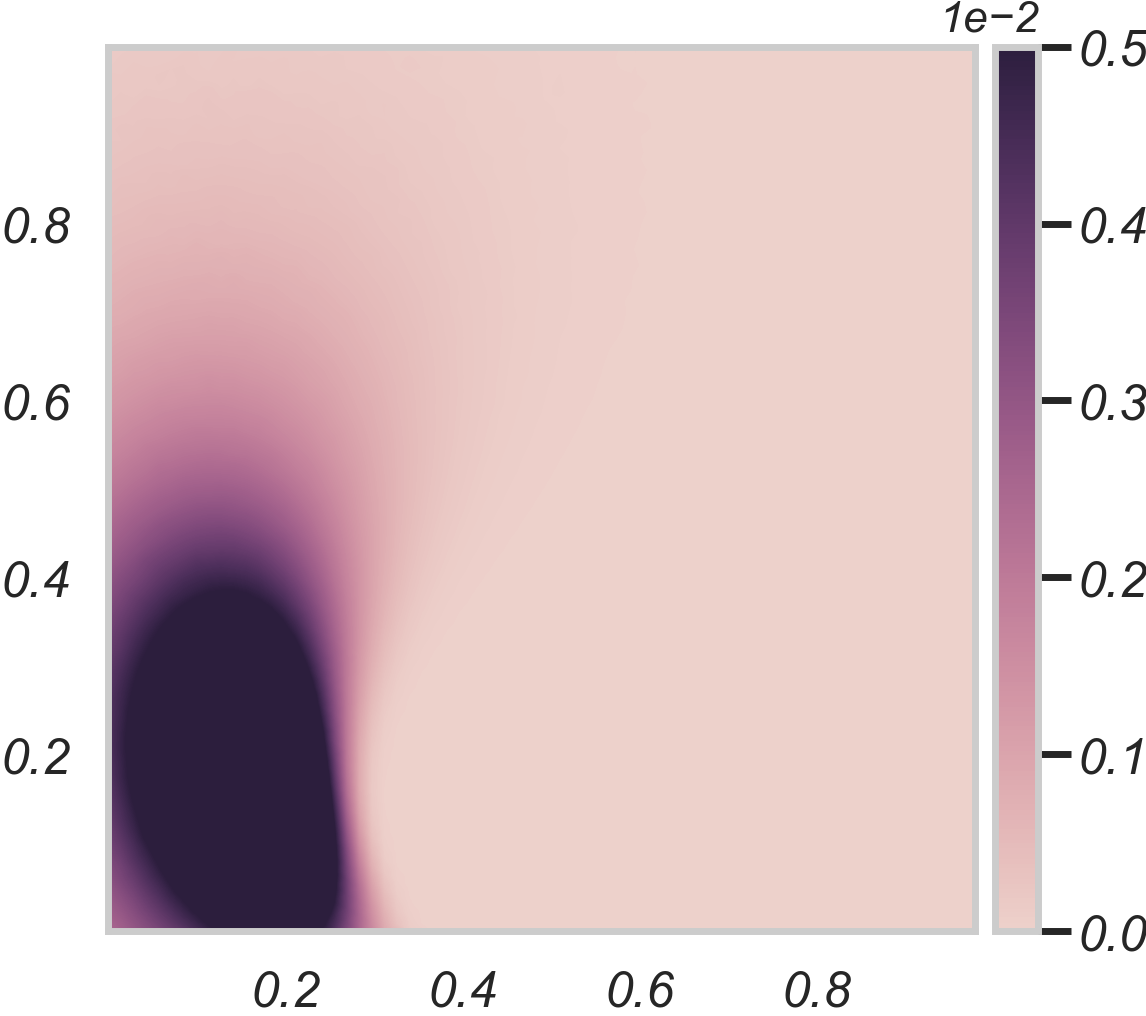
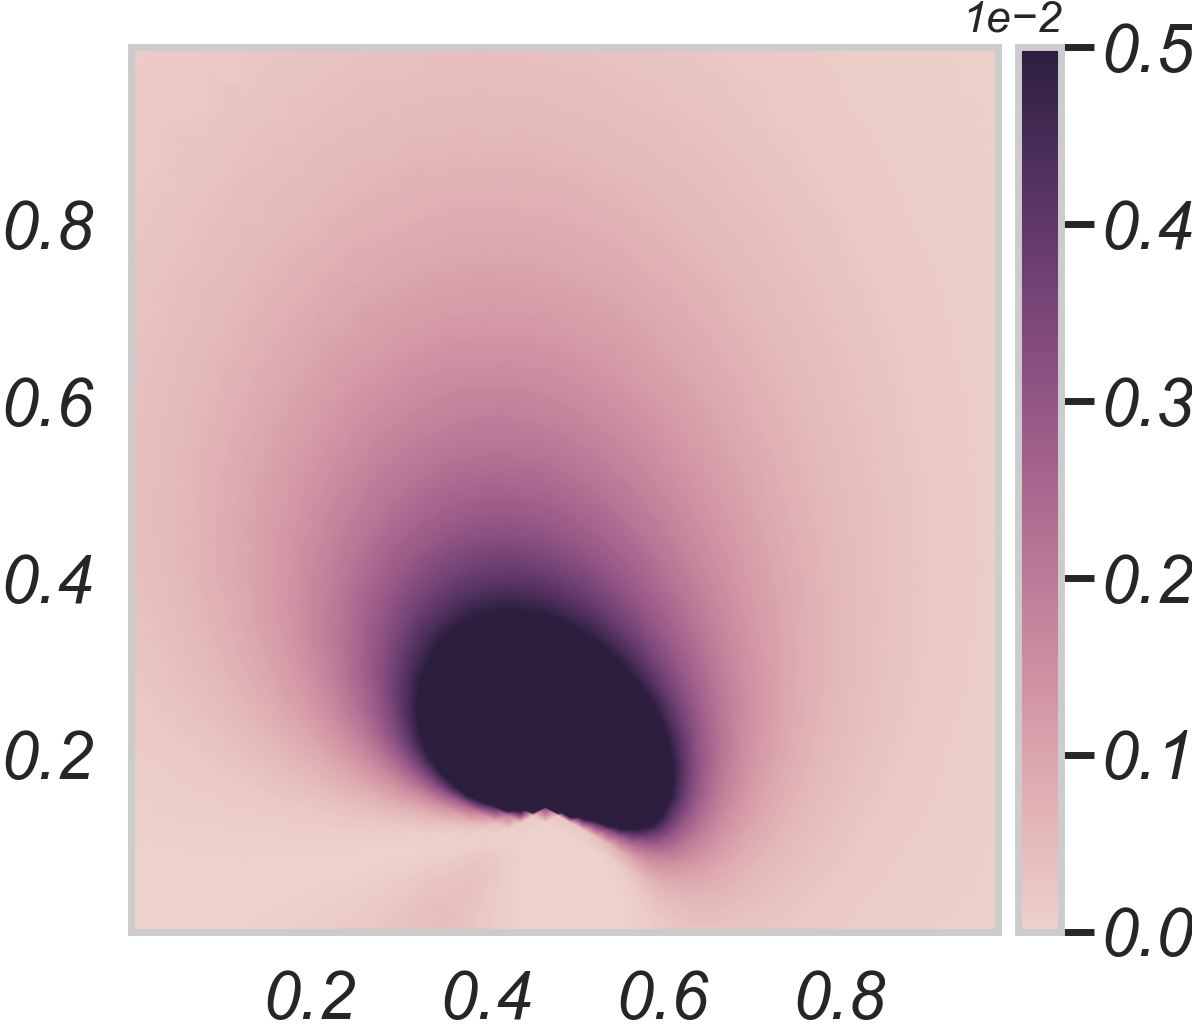
Updates from Overleaf

diff --git a/main_new.tex b/main_new.tex
@@ -85,7 +85,7 @@ Switzerland.
   spatial characteristics of ocean phenomena. Specifically, we define
   a design criterion based on uncertainty in the excursions of
   vector-valued Gaussian random fields, and derive tractable
-  expressions for the expected Bernoulli variance reduction in such a
+  expressions for the expected integrated Bernoulli variance reduction in such a
   framework. We demonstrate how this criterion can be used to
   prioritize sampling efforts at locations that are ambiguous, making
   exploration more effective. We use simulations to study the
@@ -775,10 +775,10 @@ solutions have been noted in similar contexts
 situation with random sets for vector-valued GRFs.
 
 
-\subsection{Expected Bernoulli Variance on a two dimensional Example}
+\subsection{Expected Bernoulli variance for a two dimensional Example}
 \label{Sec:UnivarEx}
 
-We illustrate the EBV associated with different designs on a simple
+We illustrate the expected Bernoulli variance (EBV) associated with different designs on a simple
 bivariate example. This mimics our river plume application and hence
 the first and second component of the random field will be called
 \textit{temperature} and \textit{salinity}. We begin
@@ -790,7 +790,7 @@ Say we want to study the excursion probability of a bivariate Gaussian
 above some threshold, where the thresholds are set equal to the mean;
 $\mu_1=t_1=5^o C$ for temperature and $\mu_2=t_2=30$ g/kg for
 salinity, and we play with the temperature and salinity correlation
-and variances to study the effect on the EP and expected Bernoulli variance.
+and variances to study the effect on the EP and EBV.
 
 \begin{figure}[!b] 
 \centering
@@ -813,11 +813,11 @@ Bernoulli variance (second row) for the examples indicated in
 Fig.~\ref{illus_bivarDens}. The EPs increase with the correlation as
 there is a strong tendency to have jointly low or high temperature and
 salinity. The Bernoulli variance is similarly larger for high
-correlations. EPs and Bernoulli variances are the same for standard
-deviation $1$ or $2$, which implies that high variability in
+correlations. EPs and Bernoulli variances are the same for temperature and salinity standard
+deviations $\sigma_1$ and $\sigma_2$, which implies that high variability in
 temperature and salinity is not captured in the $p(1-p)$ expression.
 
-\begin{table}[!t] \centering \caption{EP and Bernoulli variance for different correlations and variances (top rows), and expected Bernoulli variances for both temperature and salinity data, and only temperature data (bottom rows).}
+\begin{table}[!t] \centering \caption{EP and Bernoulli variance for different correlations and variances (top rows), and EBVs for both temperature and salinity data, and only temperature data (bottom rows).}
   \begin{tabular}{c|ccc|ccc}
  &\multicolumn{3}{c}{$\sigma_1=\sigma_2=1$} & \multicolumn{3}{c}{$\sigma_1=\sigma_2=2$} \\
 \hline
@@ -832,16 +832,15 @@ EBV, Temperature only & 0.151 & 0.138 & 0.123 & 0.137 & 0.114 & 0.093 \\
 \label{tab:sim_rhoab}
 \end{table}
 The bottom two rows of Table \ref{tab:sim_rhoab} show 
-expected Bernoulli variance results. This is presented for a design gathering
+EBV results. This is presented for a design gathering
 both data types, and for a design with temperature measurements
 alone. When both data are gathered, the measurement model is
 $(Y_1,Y_2)^t=(Z_1,Z_2)^t+\bepsilon$, with
 $\bepsilon \sim N(0,0.5^2I_2)$, while $Y_1=Z_1+\epsilon$,
 $\epsilon \sim N(0,0.5^2)$ when only temperature is measured.  For
 this illustration, Table \ref{tab:sim_rhoab} shows that the expected
-Bernoulli variance gets lower with larger standard deviations
-$\sigma_1$ and $\sigma_2$. The expected reduction of Bernoulli variance is
-largest for the cases with high correlation $\gamma$. Albeit smaller,
+Bernoulli variance gets smaller with larger standard deviations. The expected reduction of Bernoulli variance is
+further largest for the cases with high correlation $\gamma$. Albeit smaller,
 there is also uncertainty reduction when only temperature is measured
 (bottom row), especially when temperature and salinity are highly
 correlated. When correlation is low ($\gamma=0.2$), there is little
@@ -852,12 +851,11 @@ uncertainty reduction.
 
 \subsubsection{Including Spatiality}
 
-We now turn to an example involving a full-fledged gaussian random
-field (GRF). The class of GRF model we consider have a linear trend
+We now turn to an example involving a full-fledged GRF. We consider a linear trend
 \begin{align*}
 \mu(s)=\mathbb{E}\left[\begin{pmatrix}
 Z_{\spatloc, 1}\\ Z_{\spatloc, 2}
-\end{pmatrix}\right] &= \beta_0 + \beta_1 \spatloc
+\end{pmatrix}\right] &= \beta_0 + \beta_1 \spatloc,
 \end{align*}
 with $\beta_0$ a two dimensional vector and $\beta_1$ a $2\times 2$ matrix. In our examples, we only consider separable covariance models;
 \begin{align*}
@@ -865,21 +863,17 @@ with $\beta_0$ a two dimensional vector and $\beta_1$ a $2\times 2$ matrix. In o
    \gamma \sigma_i \sigma_j,~i\neq j,
         \end{cases}
 \end{align*}
-where $k(., .)$ is one of the traditional spatial covariance kernel
-(exponential, Mat\'{e}rn, etc.) and $\gamma$ defines the
-cross-covariance structure. 
+where an isotropic Mat\'{e}rn 3/2 kernel $(1+\eta h)\exp (-\eta h)$ is used, for Euclidean distance $h$.
 In the accompanying Python
 examples taking place within the MESLAS toolbox~\footnote{\url{https://github.com/CedricTravelletti/MESLAS}}, these
 modeling assumptions can however be relaxed to anisotropic covariance and
-changing variance levels across the spatial domain. Anisotropy and
-non-stationary variance are both relevant for the setting with river
-plumes, but in practice this requires more parameters to be
-specified. With extensive satellite data or prior knowledge from high-resolution ocean models, one could also possibly fit more complex multivariate
+changing variance levels across the spatial domain. Both extensions are relevant for the setting with river
+plumes, but in practice this requires more parameters to be specified. With extensive satellite data or prior knowledge from high-resolution ocean models, one could also possibly fit more complex multivariate
 spatial covariance functions
 \citep{gneiting2010matern,genton2015cross}, but that is outside the
 scope of the current paper.
 
-In the rest of this section, we will consider a GRF with mean and
+In the rest of this section, we consider a GRF with mean and
 covariance structure as above and parameters
 \begin{align*}
 \beta_0 = \begin{pmatrix}
@@ -887,20 +881,19 @@ covariance structure as above and parameters
 \end{pmatrix}, ~ \beta_1 = \begin{pmatrix}
 0.0 & -4.0\\
 0.0 & -3.8
-\end{pmatrix},~ \sigma_1 = \sigma_2 = 2.25, ~ \gamma_0 = 0.2
+\end{pmatrix},~ \sigma_1 = 2.5,~ \sigma_2 = 2.25, ~ \gamma = 0.2,
 \end{align*}
-and the spatial covariance has unit variance and a Mat\'{e}rn 3/2 kernel, $(1+\eta h)\exp (-\eta h)$, for Euclidean distance $h$ and decay parameter $\eta=0.5$.
+and kernel parameter $\eta=3.5$.
 One realization of this GRF is shown in Fig.~\ref{example_excu}.
 
-We now study how the expected Bernoulli variance eq.\eqref{def:eibv}
+We now study how the EBV [Eqn.\eqref{def:eibv}]
 associated with data collection at a point changes if only one of the
 two components of the field is observed. We first draw a realization
 of the GRF defined above and use it as ground-truth to mimic the real
 data-collection process. A first set of observations are done at the
 locations depicted in grey (see Fig.~\ref{fig:ebv_comp}), and the data
 is used to update the GRF model. We then consider the green triangle
-as a potential next observation location and plot the expected
-Bernoulli variance reduction (at each grid point/nodes in the the waypoint graph) that would result from observing only one component of the field (temperature or salinity), or both at that point.
+as a potential next observation location and plot the EBV reduction (at each grid node in the waypoint graph) that would result from observing only one component of the field (temperature or salinity), or both at that point.
 
 \begin{figure}[!b] 
 \centering 
@@ -923,11 +916,9 @@ height=0.22\textwidth,keepaspectratio]{Figures/ebv_comp_both.png}\label{fig:ebv_
 
 
 
-Note that plotting the Bernoulli variance reduction at each point
+Note that plotting the EBV reduction at each point
 might also be used to compare different data collection plans. For
-example, Fig. \ref{fig:ebv_north_vs_east} shows the expected Bernoulli
-variance reduction associated with a data collection plan along a
-vertical line (static north) and one associated with a horizontal
+example, Fig. \ref{fig:ebv_north_vs_east} shows the EBV reduction associated with a data collection plan along a vertical line (static north) and one associated with a horizontal
 (static east). Both expectations are computed according to the
 a-priori distribution of the GRF (i.e. no observations have been
 included yet).
@@ -941,7 +932,7 @@ height=0.25\textwidth,keepaspectratio]{Figures/ebv_static_excu.png}\label{fig:eb
 height=0.26\textwidth,keepaspectratio]{Figures/ebv_static_north.png}\label{fig:ebv_static_north}}
 \subfigure[Static east design.]{\includegraphics[
 height=0.26\textwidth,keepaspectratio]{Figures/ebv_static_east.png}\label{fig:ebv_static_east}}
-  \caption{Pointwise Bernoulli variance reduction for two different observation plans. The prior excursion probability is shown in \ref{fig:ebv_static_excu}. EBV reduction for each design shown in \ref{fig:ebv_static_north} and \ref{fig:ebv_static_east}.}
+  \caption{Pointwise Bernoulli variance reduction for two different observation plans. The prior EP is shown in \ref{fig:ebv_static_excu}. EBV reduction for each design shown in \ref{fig:ebv_static_north} and \ref{fig:ebv_static_east}.}
 \label{fig:ebv_north_vs_east}
 \end{figure}
 

diff --git a/macros.tex b/macros.tex
@@ -28,10 +28,16 @@
 
 % EIBV, IBV and stuff.
 \newcommand{\EIBV}{\operatorname{EIBV}}
-\newcommand{\currentEIBV}{\operatorname{EIBV}_{\stage}}
+\newcommand{\currentEIBV}{\operatorname{EIBV}_{[\stage]}}
 
 \newcommand{\IBV}{\operatorname{IBV}}
-\newcommand{\currentIBV}{\operatorname{IBV}_{\stage}}
+\newcommand{\currentIBV}{\operatorname{IBV}_{[\stage]}}
+
+\newcommand{\EEMVV}{\operatorname{EEMV}}
+\newcommand{\currentEEMV}{\operatorname{EEMV}_{[\stage]}}
+
+\newcommand{\IBV}{\operatorname{EMV}}
+\newcommand{\currentEMV}{\operatorname{EMV}_{[\stage]}}
 
 
 \newtheorem*{criterion}{Criterion}
@@ -121,16 +127,16 @@
 % SEQUENTIAL
 % ----------
 % Probability distribution now (after 1 conditioning).
-\newcommand{\currentProba}[1]{\mathbb{P}_{\stage}
+\newcommand{\currentProba}[1]{\mathbb{P}_{[\stage]}
 \left(#1\right)}
 % Probability distribution in the future (after 2 conditioning).
-\newcommand{\futureProba}[1]{\mathbb{P}_{\stage + 1}
+\newcommand{\futureProba}[1]{\mathbb{P}_{[\stage + 1]}
 \left(#1\right)}
 
 % Same for expectations.
-\newcommand{\currentExp}[1]{\mathbb{E}_{\stage}
+\newcommand{\currentExp}[1]{\mathbb{E}_{[\stage]}
 \left[#1\right]}
-\newcommand{\futureExp}[1]{\mathbb{E}_{\stage + 1}
+\newcommand{\futureExp}[1]{\mathbb{E}_{[\stage + 1]}
 \left[#1\right]}
 
 % For mean vectors.
